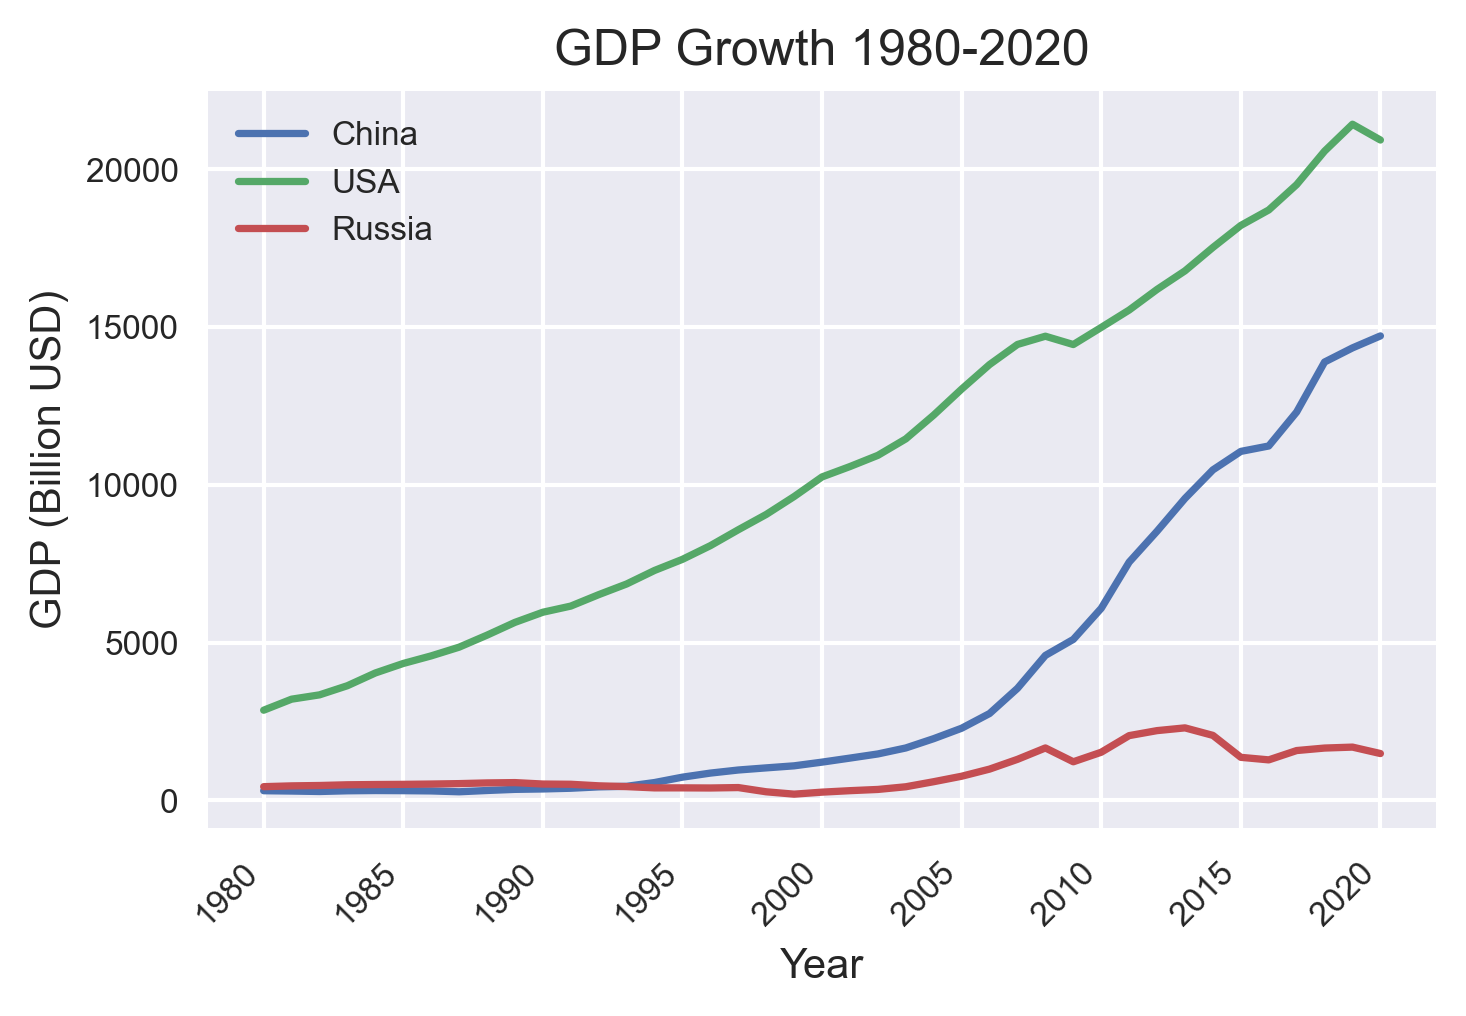
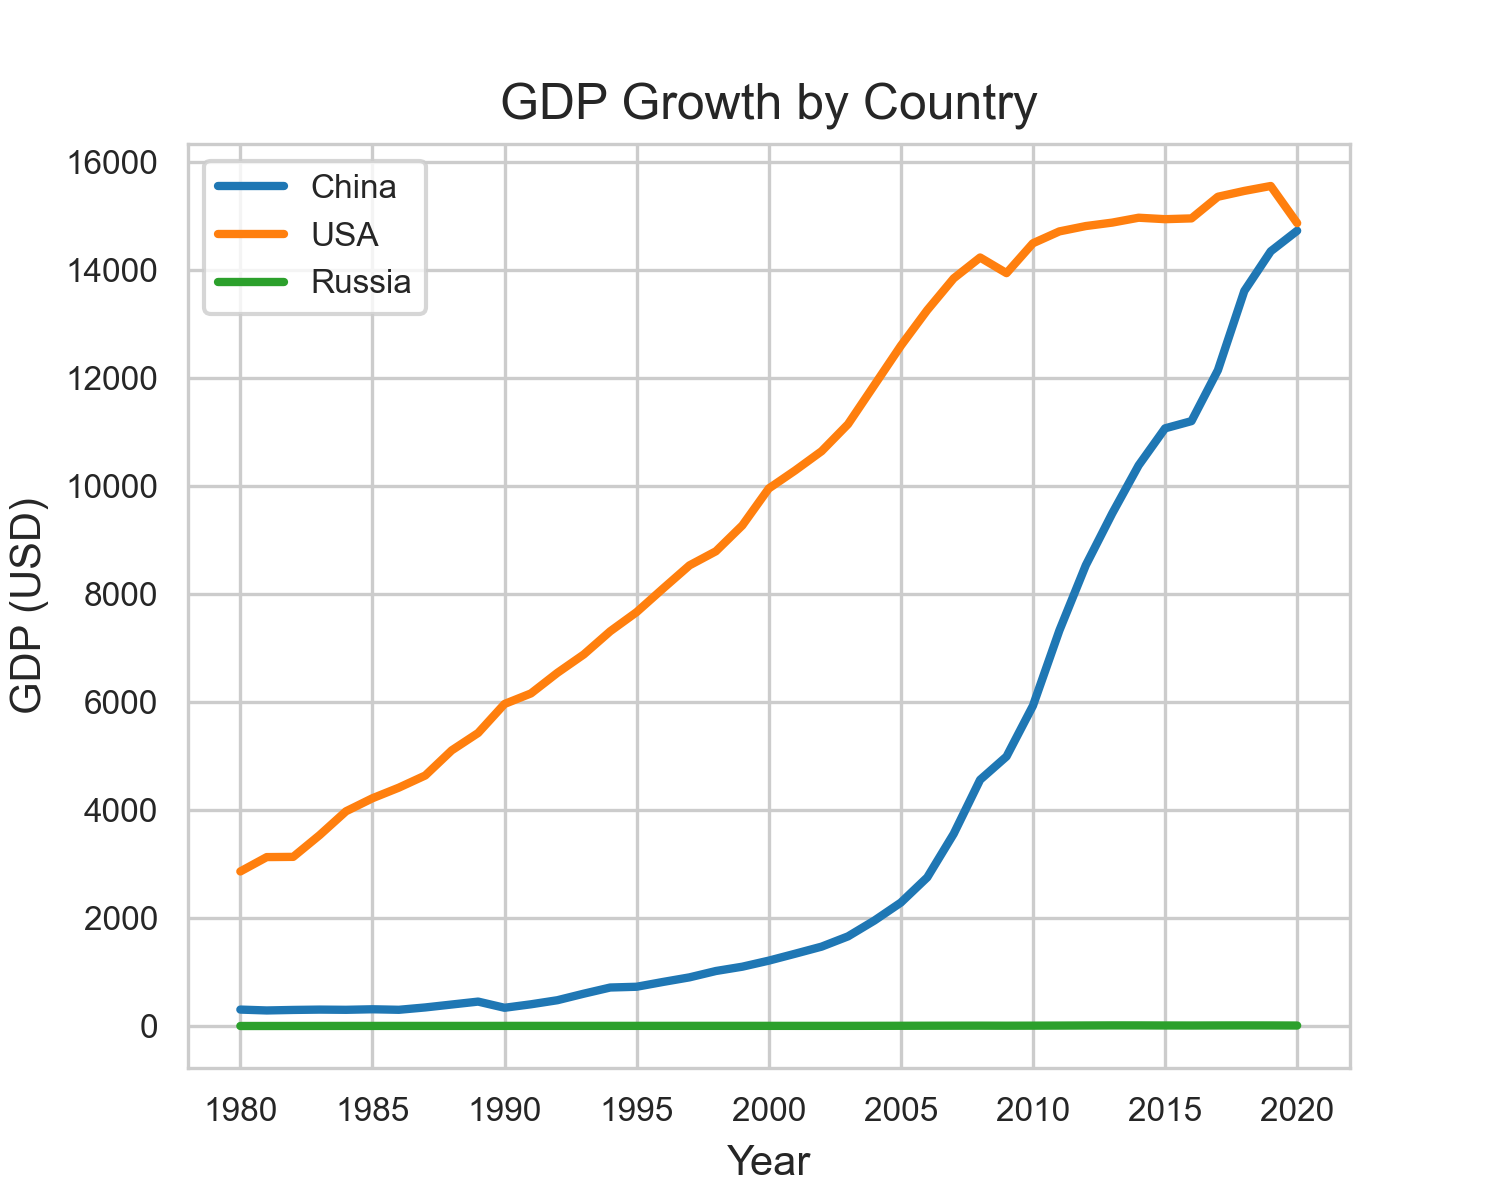
Moved `gen_data_and_plot` to function in .py file

diff --git a/gfx/gen_graphics.py b/gfx/gen_graphics.py
@@ -1,0 +1,93 @@
+from anthropic import Anthropic
+from typing import Literal
+import warnings
+import itertools
+import os
+import sys
+from pathlib import Path
+from importlib import reload, import_module
+
+# import plot_funcs
+
+
+def compile_msg_history(prompts: list[str], responses: list[str]) -> list[dict[str, str]]:
+    """ Transforms lists of messages into a message history usable by the Anthropic API as the `messages` parameter. """
+    return [{"role": "user" if i==0 else "assistant", "content": val if val else ""} for pair in itertools.zip_longest(prompts, responses) for i, val in enumerate(pair)]
+
+
+def gen_data_and_plot(
+        dataset_name: str, 
+        data_prompt: str, 
+        plot_prompt: str, 
+        client: Anthropic | None = None, 
+        model: Literal["claude-3-haiku-20240307", "claude-3-5-sonnet-20240620"] = "claude-3-haiku-20240307",
+        # plot_file: str | Path | None = None,
+        quiet: bool = False
+        ) -> None:
+    def gen_data(prompt: str, context: list[dict: str, str] | None = None) -> Path:
+        prompts.append(
+        f"Generate data in CSV format. "
+        f"Output only the data without any other text. "
+        f"Include a header row with the column titles. "
+        f"{prompt}"
+        )
+        gen_data = client.messages.create(
+            model=model,
+            max_tokens=1000,
+            messages=context if context is not None else compile_msg_history(prompts, responses)
+        )
+        if not quiet:
+            print(f"***Generated data***\n\n{gen_data.content[0].text}\n")
+        responses.append(gen_data.content[0].text)
+        data_file = Path("gfx")/"data"/(dataset_name+".csv")
+        with open(data_file, "w") as f:
+            f.write(responses[-1])
+        return data_file
+
+    def gen_plotting_code(prompt: str, context: list[dict: str, str] | None = None, use_system_prompt: bool = True):
+        SYSTEM_PROMPT = "Use the matplotlib library with the seaborn-v0_8 style. The figure should be 5 inches wide with font size no smaller than 8. You first need to load the data from the `filename` argument. The graph should appear appropriate for an academic paper. Include a title, legend, axis labels, and tick labels. Save the plot as a png with the same name as the filename argument. Output only commented Python code without any ``` backticks surrounding it."
+        plot_func = "plot_"+dataset_name
+        prompts.append(
+            f"Write a python function called `{plot_func}` to plot the data you just generated per the following description. "
+            f"{prompt}. "
+            f"{SYSTEM_PROMPT if use_system_prompt else ''}")
+        gen_data = client.messages.create(
+            model=model,
+            max_tokens=1000,
+            messages=context if context is not None else compile_msg_history(prompts, responses)
+        )
+        if gen_data.content[0].text[:9] == "```python":
+            warnings.warn("Plotting code included '```python`' block. Tried manually deleting it, but plot code may not work.")
+            responses.append(gen_data.content[0].text[9:-3])
+        else:
+            responses.append(gen_data.content[0].text)
+        if not quiet:
+            print(f"***Plotting code***\n\n{gen_data.content[0].text}\n")
+        with open(plot_file, "w") as f:
+            f.write(responses[-1])
+
+    def gen_plot(plot_func: callable, data_file: Path | str, *plot_args, **plot_kwargs):
+        plot_func(data_file, *plot_args, **plot_kwargs)
+
+    if client is None:
+        client = Anthropic(
+            api_key=os.getenv("ANTHROPIC_API_KEY")
+        )
+    plot_file = Path("gfx")/"plot_funcs"/("plot_"+dataset_name+".py")
+    prompts, responses = [], []
+    # data_file = Path("gfx")/"data"/(dataset_name+".csv")
+    data_file = gen_data(data_prompt)
+    gen_plotting_code(plot_prompt)
+    import_module(f"plot_funcs.plot_{dataset_name}")
+    reload(sys.modules[f"plot_funcs.plot_{dataset_name}"])
+    gen_plot(getattr(sys.modules[f"plot_funcs.plot_{dataset_name}"], f"plot_{dataset_name}"), str(data_file))
+    
+gen_data_and_plot(
+    "GNP_growth",
+    "The first column of the data is the year. "
+    "The data has 3 columns labeled 'China', 'USA', and 'Russia' tracking GDP in USD from 1980 until 2020. "
+    "The values in each column are generally increasing in a jagged fashion, but 'China' is increasing most quickly. "
+    "The values should be of a realistic magnitude for the countries labeled.",
+    "Simple line chart.",
+    model="claude-3-haiku-20240307",
+)

diff --git a/gfx/plot_funcs/plot_GNP_growth.py b/gfx/plot_funcs/plot_GNP_growth.py
@@ -1,45 +1,26 @@
-# Import required libraries
 import pandas as pd
 import matplotlib.pyplot as plt
 import seaborn as sns
 
 def plot_GNP_growth(filename):
-    # Set the style
-    plt.style.use('seaborn-v0_8')
-    
-    # Load the data
-    df = pd.read_csv(filename)
-    
-    # Create the figure and axis objects
-    fig, ax = plt.subplots(figsize=(5, 3.5))  # 5 inches wide, adjust height for better aspect ratio
-    
-    # Plot the data
-    ax.plot(df['Year'], df['China'], label='China')
-    ax.plot(df['Year'], df['USA'], label='USA')
-    ax.plot(df['Year'], df['Russia'], label='Russia')
-    
-    # Set the title and labels
-    ax.set_title('GDP Growth 1980-2020', fontsize=12)
-    ax.set_xlabel('Year', fontsize=10)
-    ax.set_ylabel('GDP (Billion USD)', fontsize=10)
-    
-    # Customize the tick labels
-    ax.tick_params(axis='both', which='major', labelsize=8)
-    
-    # Rotate x-axis labels for better readability
-    plt.xticks(rotation=45, ha='right')
-    
-    # Add legend
-    ax.legend(fontsize=8, loc='upper left')
-    
-    # Adjust layout to prevent clipping
-    plt.tight_layout()
-    
-    # Save the plot
-    plt.savefig(filename.replace('.csv', '.png'), dpi=300, bbox_inches='tight')
-    
-    # Close the plot to free up memory
-    plt.close()
+    # Load the data from the file
+    data = pd.read_csv(filename)
 
-# Example usage:
-# plot_GNP_growth('gdp_data.csv')
+    # Set the style of the plot
+    sns.set_style("whitegrid")
+
+    # Create the figure and axis object
+    fig, ax = plt.subplots(figsize=(5, 4))
+
+    # Plot the data
+    data.plot(x="Year", y=["China", "USA", "Russia"], ax=ax, linewidth=2)
+
+    # Set the title, legend, axis labels, and tick labels
+    ax.set_title("GDP Growth by Country", fontsize=12)
+    ax.set_xlabel("Year", fontsize=10)
+    ax.set_ylabel("GDP (USD)", fontsize=10)
+    ax.tick_params(axis="both", labelsize=8)
+    ax.legend(fontsize=8)
+
+    # Save the plot as a PNG file
+    plt.savefig(f"{filename.split('.')[0]}.png", dpi=300)
